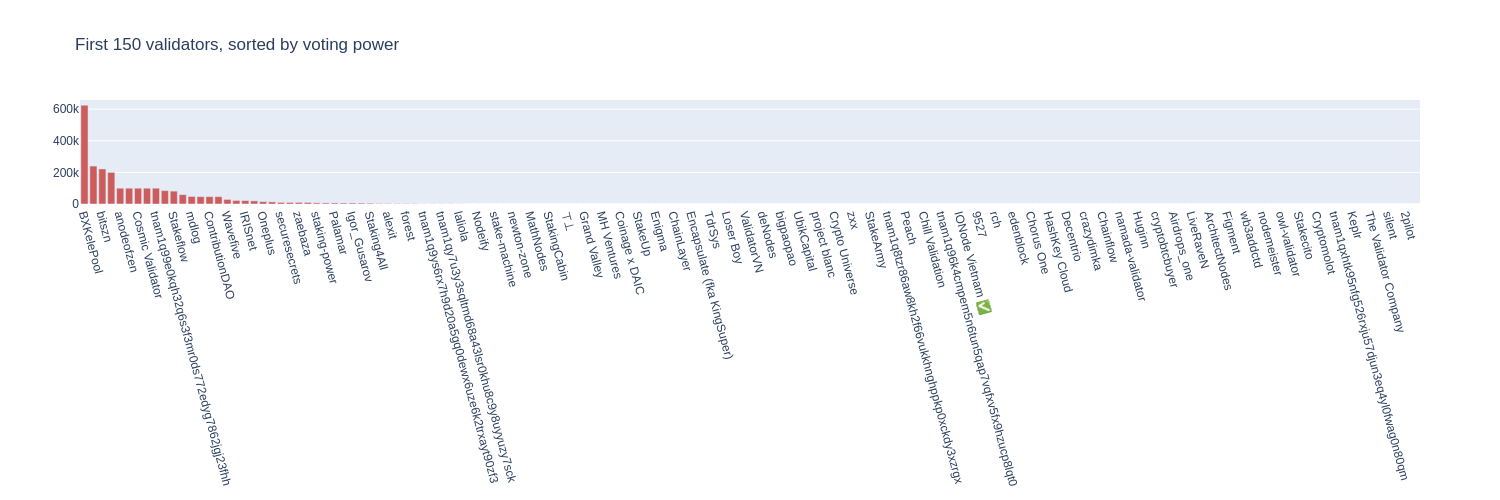
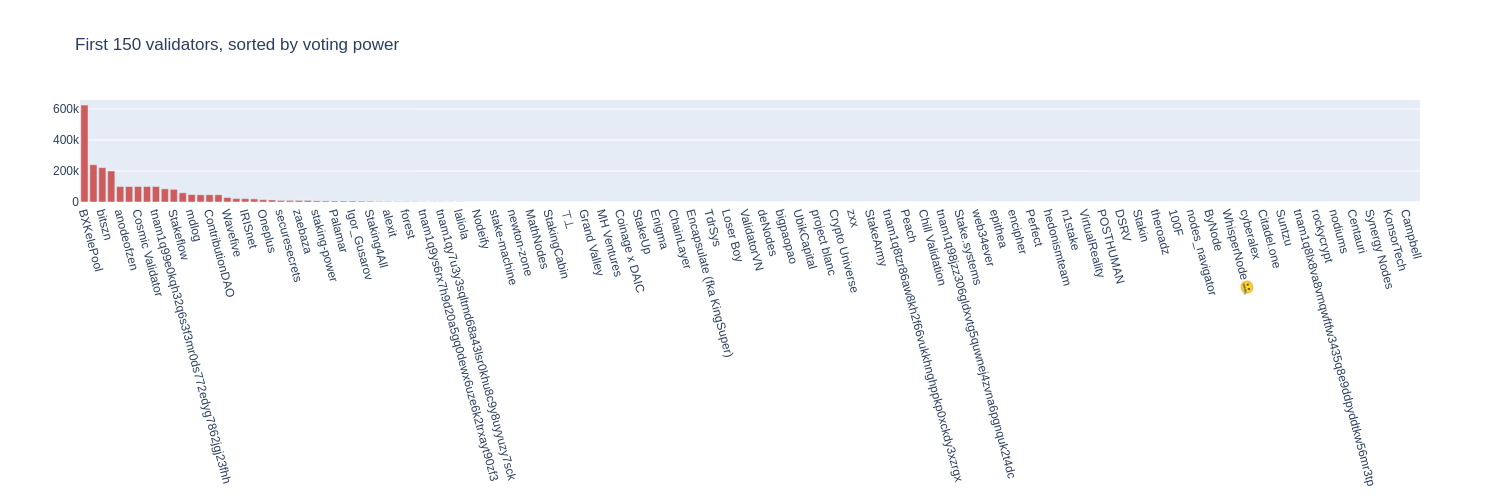
[skip ci] rebuild genesis readme

diff --git a/README.md b/README.md
@@ -12,7 +12,7 @@ If you need help, feel free to [reach out on discord](https://discord.gg/AsPCKgW
 ![Voting Power Distribution](images/validators.png "Voting Power Distribution")
 
 
-- Total validators: `190`
+- Total validators: `191`
 - Total delegations: `49`
 - Staked tokens: `2422781.592579 (~0.24%)`
 
@@ -872,6 +872,15 @@ If you need help, feel free to [reach out on discord](https://discord.gg/AsPCKgW
     - total voting power: `0 (0.0%)`
     - email: `chillvalidation@gmail.com`
     - website: `https://chillvalidation.com`
+    - total delegations: `0`
+
+- address: `tnam1qx7apjd6puv09zenlgcjg5q9l74y6ax4sqvyhp6y`
+    - alias: `Luganodes`
+    - commission: `10.0%`
+    - max commission rate change: `1.0%`
+    - total voting power: `0 (0.0%)`
+    - email: `devops@luganodes.com`
+    - website: `https://www.luganodes.com/`
     - total delegations: `0`
 
 - address: `tnam1q98jzz306gldxvtg5quwnej4zvna6pgnquk2t4dc`
